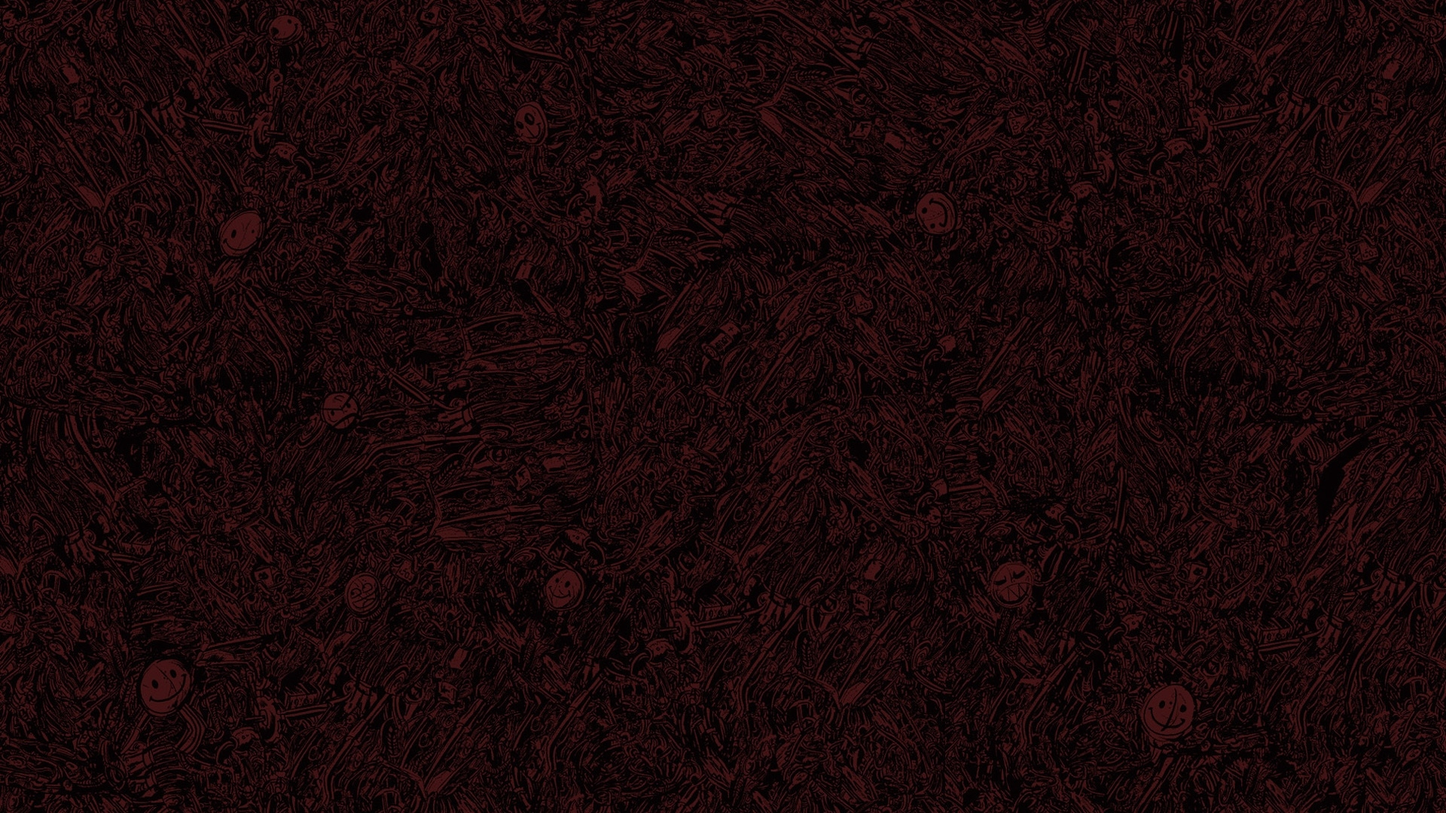
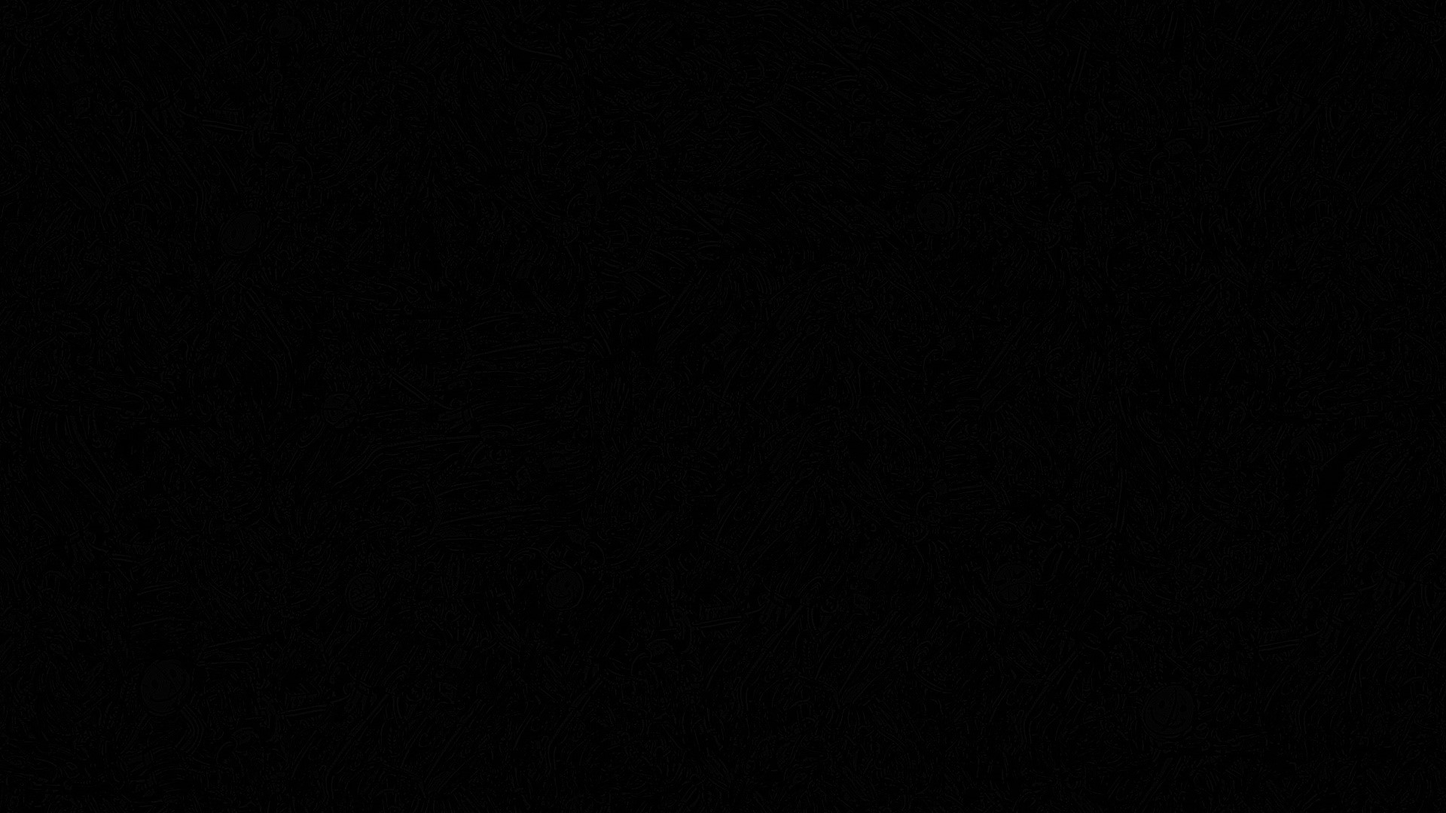
background

diff --git a/osat/templates/osat/about.html b/osat/templates/osat/about.html
@@ -1,11 +1,26 @@
 {% extends 'osat/base.html' %}
-{% block body %}
+{% block about %}
 <div id="div3">
 <h1 style="color:#d2d2d2;">About</h1>
-<p style="color:#7d7d7d; font-size:18px;">The alumni are the true ambassadors of an Institution. Toc H Public School, Kochi has a very strong alumni base and has carved a niche for themselves in the world at large.
+<p style="color:#7d7d7d; font-size:16px;">OSAT who are we?
 
-Our old students working within our country as well as abroad have excelled in a wide variety of tasks and have brought laurels and glory to the alma mater.
+Whether you graduated two years ago or two decades ago, we know you want to keep tabs on your friends and contemporaries. As alumni of Toc-H Public School, you are part of a global network of creators and change makers bound together by our shared connection and our collective passion. OSAT (Old Students Association of Toc-H Public School) maintains & enhances a highly spirited, dynamic community of alumni worldwide. By fostering remembrances of the school and enabling the renewing of acquaintances and friendships, we provide fulfilling social outlets and opportunities for giving back.
 
-Our past students are working as Entrepreneurs, Politicians, Artists, Writers, Fashion designers, Managers, Business men etc. collectively have a wealth of knowledge and experience. The OSAT [Old Students Association of Toc H] brings all these outstanding ToPSanians, more than 3000 past students since 1984, together on a single platform</p>
+
+
+In addition to the social enjoyment that meeting up with old friends can bring, we also tap into the vast network of knowledge and experience of our alumni for the benefit of current and future Toc-H students as they move on. From university advice and internships to volunteer assignments and career openings, we believe that you -our alumni- have a lot to offer! We have had a great response from alumni willing to help us move things forward and we are looking forward to working with those people in the coming months and years.
+
+
+
+The Governing Council at OSAT is responsible for a number of activities which promote the alumni. These include a continuous effort to locate alumni; maintaining a database of alumni, staff and friends; planning reunions and special events; maintaining an alumni website amongst others.
+
+
+
+Since the Association’s launch, it has seen a number of official reunions and an ever growing following on social media where great memories are shared and old friends are reunited. This is your chance to reflect & reconnect.Traditionally, we meet for a reunion late in December. Stay connected to your alma mater even if you are halfway around the world.
+
+
+
+The Toc-H experience truly goes beyond your time on campus!
+</p>
 </div>
 {% endblock %}

diff --git a/osat/templates/osat/base.html b/osat/templates/osat/base.html
@@ -25,7 +25,7 @@
     <script src="{% static 'osat/script.js' %}"></script>
 
 </head>
-<body >
+<body background="{% static 'osat/image1.jpeg' %}">
 <div class="navbar navbar-inverse navbar-fixed-left" id="nav1">
   <a href="{% url 'osat:index' %}"><img src="{% static 'osat/logo.jpg' %}" style="width:200px;height:200px;padding:10px;"></a>
   <ul class="nav navbar-nav" style="padding-left:20px;">
@@ -41,12 +41,7 @@
               <a href="#" class="fa fa-instagram" style="text-decoration:none;"></a>
               <a href="#" class="fa fa-youtube" style="text-decoration:none;"></a>
               <a href="#" class="fa fa-whatsapp" style="text-decoration:none;"></a>
-
-  <!--<a href="#" style=""><i class="fa fa-facebook-f" style="font-size:30px;width:27px;"></i></a>
-  <a href="#"><i class="fa fa-instagram" style="font-size:30px;width:35px;"></i></a>
-  <a href="#"><i class="fa fa-whatsapp" style="font-size:30px;width:35px;"></i></a>
-   -->
-          </div>
+    </div>
       </li>
   </ul>
 </div>
@@ -124,10 +119,14 @@
                       <a href="{% url 'osat:notific' %}" style="color:red;">View all</a>
                   </div>
             </div>
-            <hr>
         </div>
   </div>
  </div>
+{% block about %}
+
+
+
+{% endblock %}
 
 </body>
 

diff --git a/osat/templates/osat/index.html b/osat/templates/osat/index.html
@@ -60,8 +60,8 @@
 
 
 
-<div class="container" id="slid1">
-  <div id="myCarousel" class="carousel slide" id="slid2" data-ride="carousel" style="width:700px;height:330px;margin:10px -118px;">
+<div class="container" id="slid1"style="width:700px;height:330px;margin:10px -118px;">
+  <div id="myCarousel" class="carousel slide" id="slid2" data-ride="carousel" >
     <!-- Indicators -->
     <ol class="carousel-indicators" id="slid3">
       <li data-target="#myCarousel" data-slide-to="0" class="active"></li>
@@ -73,6 +73,10 @@
     <div class="carousel-inner" id="slid4">
       <div class="item active" id="slid5">
         <img src="{% static 'osat/pic1.jpg' %}" alt="Los Angeles" style="width:100%;height:380px;">
+          <div class="carousel-caption">
+          <h3>Los Angeles</h3>
+          <p>LA is always so much fun!</p>
+        </div>
       </div>
 
       <div class="item" id="slid6">

diff --git a/osat/static/osat/script.js b/osat/static/osat/script.js
@@ -21,8 +21,11 @@ $(document).ready(function(){
     $("#slid3").fadeIn(2000);
     $("#slid4").fadeIn(2000);
     $("#slid5").fadeIn(2000);
+    $("#slid5").attr("style","");
     $("#slid6").fadeIn(2000);
+    $("#slid6").attr("style","");
     $("#slid7").fadeIn(2000);
+    $("#slid7").attr("style","");
     $("#menu-items").fadeIn(2000);
     $("#div3").fadeIn(1000);
     $("#reg1").fadeIn(1000);

diff --git a/osat/static/osat/style.css b/osat/static/osat/style.css
@@ -1,8 +1,8 @@
-{% load static %}
+{% load staticfiles %}
 
 .icon-bar > a {
     font-size:25px;
-    margin: 20px 0 0 7.3px;
+    margin: 20px 0 0 7px;
 }
 
 /*.fade-scale {
@@ -132,8 +132,9 @@ html, body{
 }
 
 body{
-  background:black;
-  font-family: Arial;
+ /* background-image:url("{% static 'osat/image1.jpeg' %}");*/
+  /*background:black;
+  font-family: Arial;*/
 }
 
 .svg-main-logo {

diff --git a/osat/views.py b/osat/views.py
@@ -1,12 +1,12 @@
 import datetime
 from django.shortcuts import render
-from django.http import HttpResponse
+from django.http import HttpResponse, JsonResponse
 
 from . forms import *
 from . models import *
 def index(request):
     dn=datetime.datetime.now()
-    cont_dict={'notif' : notif.objects.all().order_by('-timestamp')[:3],'dn':dn}
+    cont_dict={'notif' : notif.objects.all().order_by('-timestamp')[:2],'dn':dn}
     return render(request, "osat/index.html", cont_dict)
 
 
@@ -44,3 +44,8 @@ def notific(request):
     dn = datetime.datetime.now()
     cont_dict2 = {'notif': notif.objects.all().order_by('-timestamp'), 'dn': dn}
     return render(request, "osat/notifications.html", cont_dict2)
+
+
+
+def example(request):
+    return JsonResponse({"data": "hello world"})

diff --git a/osat/urls.py b/osat/urls.py
@@ -11,6 +11,7 @@ urlpatterns = [
     url(r'^e_registration/$', views.e_registration, name='e_registration'),
     url(r'^c_us/$', views.c_us, name='c_us'),
     url(r'^notifications/$', views.notific, name='notific'),
+    url(r'^example/$', views.example, name='example'),
 
 
 ]
